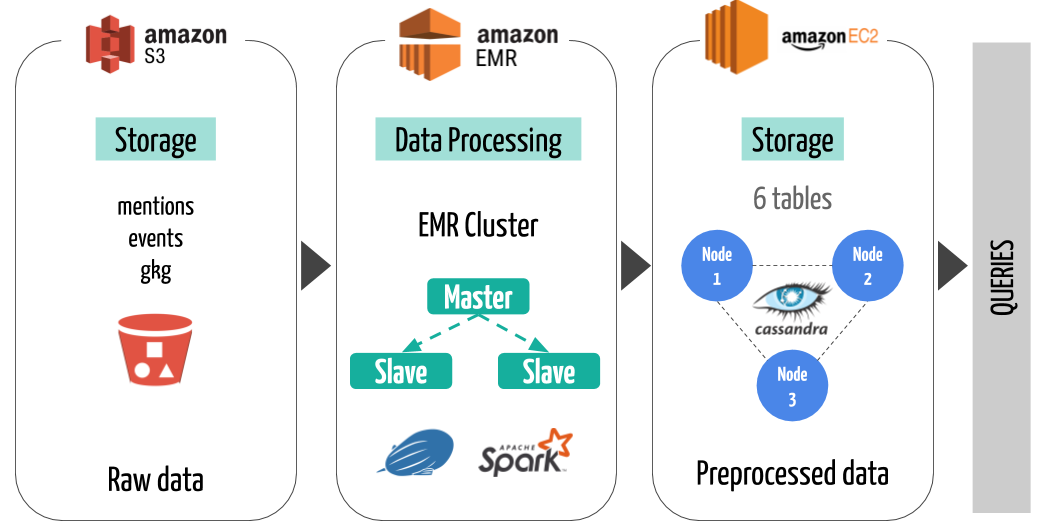
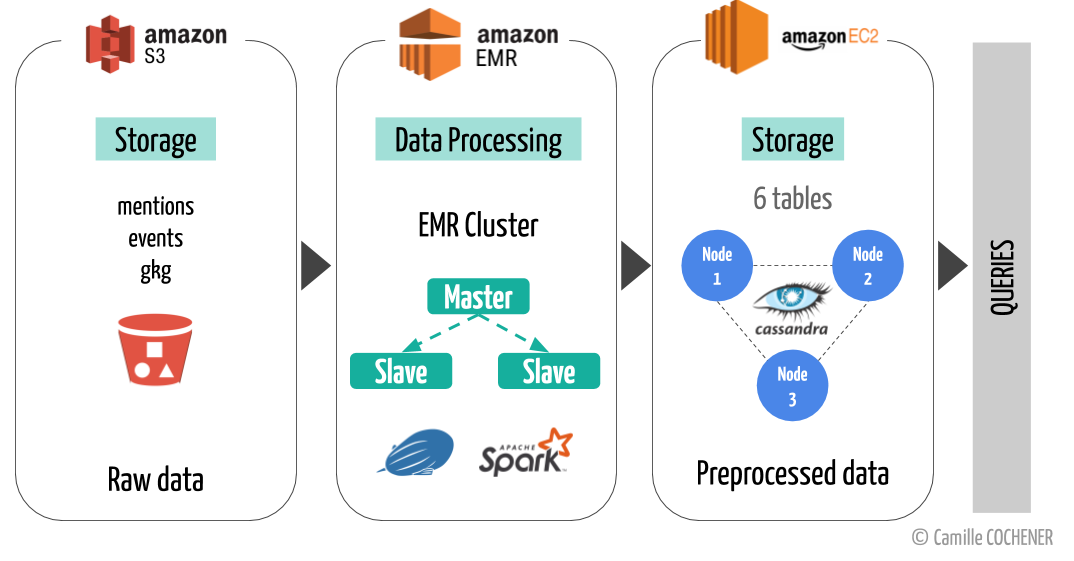
update

diff --git a/projects.md b/projects.md
@@ -124,7 +124,7 @@ Our achitecture was composed of :
 * <u>An ETL system</u> : an EMR cluster with 3 instances to extract, transform and load the data thanks to Spark and Zeppelin
 * <u>A storage system allowing Spark SQL queries</u> : an EC2 cluster with 3 instances (3 nodes Cassandra cluster)
 
-<div style="text-align:center"><img src="assets/img/Architecture_ETL.png" width="500"></div>
+<div style="text-align:center"><img src="assets/img/Architecture_ETL.png" width="400"></div>
 
 <p style="text-align: justify;">The various requirements of the project have been fulfilled.</p>
 
